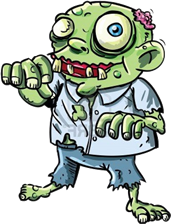
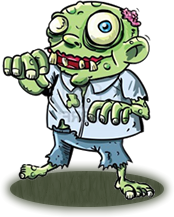
zombies done

diff --git a/controllers/users_controller.js b/controllers/users_controller.js
@@ -104,17 +104,17 @@ router.post('/create', function(req,res) {
 
 						projectX.createNewUserEnemies(['zombieTypes', 'asset', 'damage', 'vx', 'energy', 'userId'], ["zombieFour", "ryNPR8_S_zombieFour.png", 1.5, -9, 35, req.session.user_id], function(data){});
 
-						projectX.createNewUserEnemies(['zombieTypes', 'asset', 'damage', 'vx', 'energy', 'userId'], ["zombieFive", "SJTc2YDS_zombieOne.png", 1.75, -8, 40, req.session.user_id], function(data){});
+						projectX.createNewUserEnemies(['zombieTypes', 'asset', 'damage', 'vx', 'energy', 'userId'], ["zombieFive", "HyyIxvOH_zombieFive.png", 1.75, -8, 40, req.session.user_id], function(data){});
 
-						projectX.createNewUserEnemies(['zombieTypes', 'asset', 'damage', 'vx', 'energy', 'userId'], ["bossOne", "Skdj2YwH_bossOne.png", 2.00, -15, 45, req.session.user_id], function(data){});
+						projectX.createNewUserEnemies(['zombieTypes', 'asset', 'damage', 'vx', 'energy', 'userId'], ["bossOne", "rkrXGwOB_bossOne.png", 2.00, -15, 45, req.session.user_id], function(data){});
 
-						projectX.createNewUserEnemies(['zombieTypes', 'asset', 'damage', 'vx', 'energy', 'userId'], ["bossTwo", "ryG2hFvS_bossOne.png", 2.25, -15, 45, req.session.user_id], function(data){});
+						projectX.createNewUserEnemies(['zombieTypes', 'asset', 'damage', 'vx', 'energy', 'userId'], ["bossTwo", "S1Mj-wdB_bossTwo.png", 2.25, -15, 45, req.session.user_id], function(data){});
 
-						projectX.createNewUserEnemies(['zombieTypes', 'asset', 'damage', 'vx', 'energy', 'userId'], ["bossThree", "Hki3hKPr_bossOne.png", 2.50, -15, 45, req.session.user_id], function(data){});
+						projectX.createNewUserEnemies(['zombieTypes', 'asset', 'damage', 'vx', 'energy', 'userId'], ["bossThree", "r1q4VwOB_bossThree.png", 2.50, -15, 45, req.session.user_id], function(data){});
 
-						projectX.createNewUserEnemies(['zombieTypes', 'asset', 'damage', 'vx', 'energy', 'userId'], ["bossFour", "rJBT3YDB_bossOne.png", 2.75, -15, 45, req.session.user_id], function(data){});
+						projectX.createNewUserEnemies(['zombieTypes', 'asset', 'damage', 'vx', 'energy', 'userId'], ["bossFour", "SJKgBPOH_bossFour.png", 2.75, -15, 45, req.session.user_id], function(data){});
 
-						projectX.createNewUserEnemies(['zombieTypes', 'asset', 'damage', 'vx', 'energy', 'userId'], ["bossFive", "rkRa2FDr_bossOne.png", 3, -15, 45, req.session.user_id], function(data){
+						projectX.createNewUserEnemies(['zombieTypes', 'asset', 'damage', 'vx', 'energy', 'userId'], ["bossFive", "H1eM8vur_bossFive.png", 3, -15, 45, req.session.user_id], function(data){
 		                	res.redirect('/index')
 						});
 
